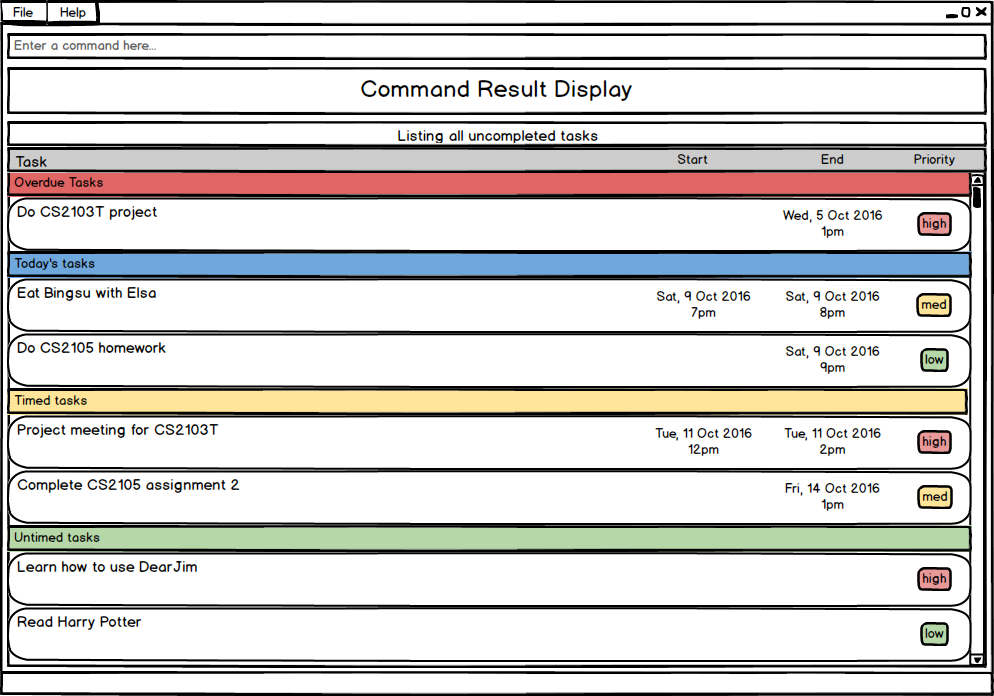
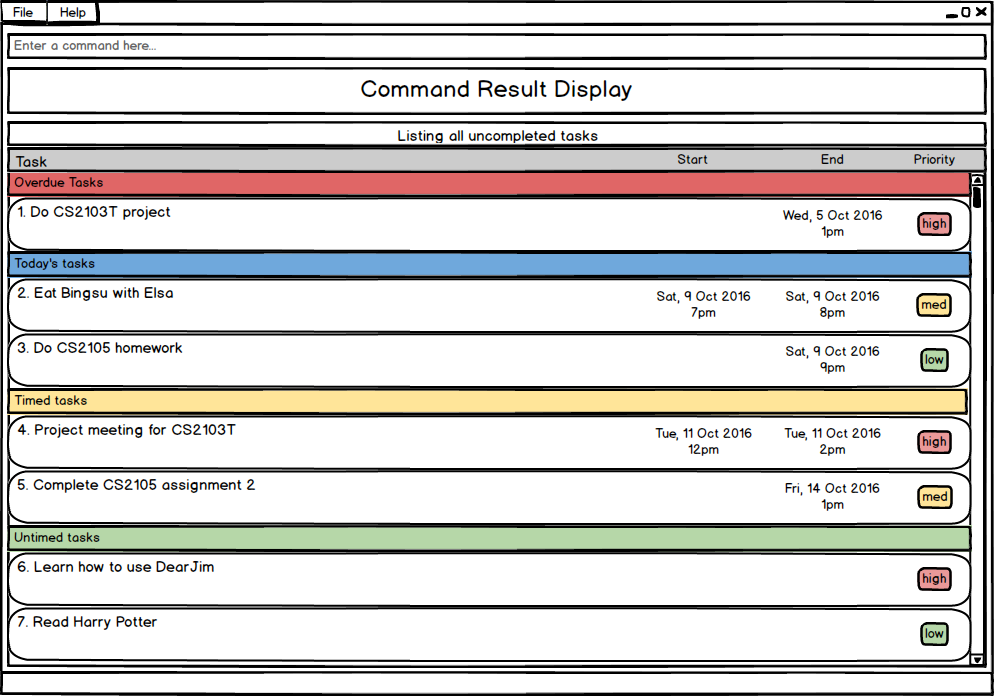
Fix index for task on GUI

diff --git a/README.md b/README.md
@@ -6,7 +6,7 @@
 
 Introducing *DearJim* - a revolutionary task manager designed to help you organise your tasks that is simple and easy to use. *DearJim* is targeted at users who prefer to type and users who are more comfortable with keyboard based commands.
 
-*DearJim* functions purely through keyboard inputs - no more fumbling around trying to look for the right button to press, simply enter a command and press <kbd>enter</kbd>! *DearJim* also supports different types of tasks, such as tasks with deadlines, tasks without deadlines, tasks with start and end time, recurring tasks, and can even block dates to support tasks without a confirmed date. 
+*DearJim* functions purely through keyboard inputs - no more fumbling around trying to look for the right button to press, simply enter a command and press <kbd>Enter</kbd>! *DearJim* also supports different types of tasks, such as tasks with deadlines, tasks without deadlines, tasks with start and end time, recurring tasks, and can even block dates to support tasks without a confirmed date. 
 
   
 #### Site Map
